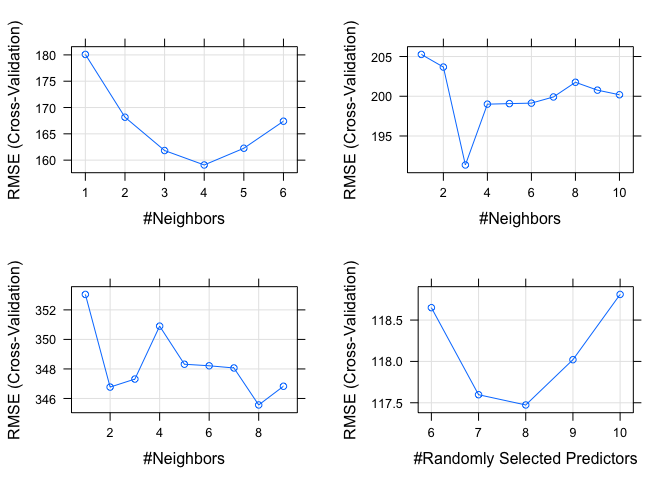
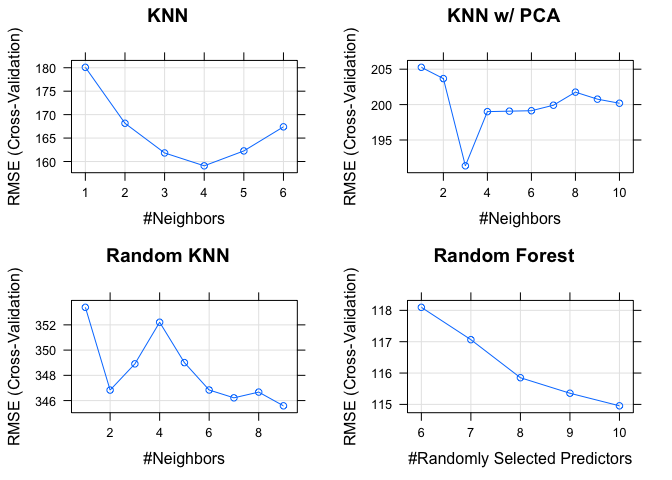
adding titles to graphsS

diff --git a/random_forest_v2.md b/random_forest_v2.md
@@ -111,19 +111,19 @@ random_knn
     ## Resampling results across tuning parameters:
     ## 
     ##   k  RMSE      Rsquared  RMSE SD  
-    ##   1  353.0473  NaN       16.419668
-    ##   2  346.7706  NaN        8.631361
-    ##   3  347.3136  NaN        6.924759
-    ##   4  350.8994  NaN        5.892116
-    ##   5  348.3185  NaN        8.088217
-    ##   6  348.2139  NaN        8.827851
-    ##   7  348.0658  NaN       12.790645
-    ##   8  345.5595  NaN       12.418408
-    ##   9  346.8270  NaN       11.467108
+    ##   1  353.3906  NaN       17.151187
+    ##   2  346.8305  NaN        9.682659
+    ##   3  348.9103  NaN        6.727763
+    ##   4  352.2084  NaN        5.103196
+    ##   5  349.0076  NaN        8.176299
+    ##   6  346.8379  NaN        9.171255
+    ##   7  346.2178  NaN       13.221337
+    ##   8  346.6719  NaN       13.423569
+    ##   9  345.5848  NaN       10.401730
     ## 
     ## Tuning parameter 'mtry' was held constant at a value of 1
     ## RMSE was used to select the optimal model using  the smallest value.
-    ## The final values used for the model were k = 8 and mtry = 1.
+    ## The final values used for the model were k = 9 and mtry = 1.
 
 ``` r
 forest_fit
@@ -136,27 +136,27 @@ forest_fit
     ## 
     ## Pre-processing: centered (10), scaled (10) 
     ## Resampling: Cross-Validated (5 fold) 
-    ## Summary of sample sizes: 746, 745, 744, 744, 745 
+    ## Summary of sample sizes: 744, 745, 745, 744, 746 
     ## Resampling results across tuning parameters:
     ## 
     ##   mtry  RMSE      Rsquared   RMSE SD   Rsquared SD
-    ##    6    118.6501  0.8794121  14.21495  0.02300776 
-    ##    7    117.5972  0.8811873  13.03770  0.01871440 
-    ##    8    117.4733  0.8810074  13.16539  0.01951565 
-    ##    9    118.0208  0.8796183  12.56639  0.02072011 
-    ##   10    118.8101  0.8783684  13.02250  0.02040294 
+    ##    6    118.0968  0.8798602  18.75113  0.03423760 
+    ##    7    117.0644  0.8806987  17.15956  0.03089014 
+    ##    8    115.8513  0.8826324  16.22027  0.02888434 
+    ##    9    115.3557  0.8836847  14.73656  0.02566873 
+    ##   10    114.9548  0.8843487  11.50430  0.01902786 
     ## 
     ## RMSE was used to select the optimal model using  the smallest value.
-    ## The final value used for the model was mtry = 8.
+    ## The final value used for the model was mtry = 10.
 
 Comparison of Parameter selection on RSME for the different models:
 
 ``` r
 library(gridExtra) 
-grid.arrange(   plot(knn_fit),
-                plot(knn_fit_pca),
-                plot(random_knn),
-                plot(forest_fit))
+grid.arrange(   plot(knn_fit, main = "KNN"),
+                plot(knn_fit_pca, main = "KNN w/ PCA"),
+                plot(random_knn, main = "Random KNN"),
+                plot(forest_fit, main = "Random Forest"))
 ```
 
 ![](random_forest_v2_files/figure-markdown_github/unnamed-chunk-5-1.png)
@@ -184,16 +184,16 @@ importance(random_forest)
 ```
 
     FALSE                                  %IncMSE IncNodePurity
-    FALSE employees_mining_logging_1000 102.048852    31929900.1
-    FALSE num_acres_leased_yr             4.992997      405265.4
-    FALSE num_acres_leased               52.420151    20732271.0
-    FALSE num_leases_in_effect           20.779338     8814001.4
-    FALSE num_new_leases_yr               3.485826      388586.5
-    FALSE num_of_producible_wells        25.158260    10859190.9
-    FALSE num_of_producible_completions  22.456119     9017303.7
-    FALSE num_producing_acres            14.483919     3977846.9
-    FALSE num_producing_leases           39.229052    15688411.1
-    FALSE num_wells_spudded_yr            6.452014     1239744.3
+    FALSE employees_mining_logging_1000 103.048886    32244509.2
+    FALSE num_acres_leased_yr             4.900269      403073.5
+    FALSE num_acres_leased               49.733157    21481798.5
+    FALSE num_leases_in_effect           20.916296     8965269.5
+    FALSE num_new_leases_yr               3.790445      421691.4
+    FALSE num_of_producible_wells        25.967869    11338985.5
+    FALSE num_of_producible_completions  21.676697     8407483.3
+    FALSE num_producing_acres            15.441596     4071874.5
+    FALSE num_producing_leases           37.851343    15339103.8
+    FALSE num_wells_spudded_yr            6.600018     1584128.6
 
 Number of employee, number of acres leased for energy development, and number of leases for producing energy have the highes predictive value for predicting hazmat incidences.
 
@@ -216,13 +216,13 @@ rpartTune
     FALSE 
     FALSE No pre-processing
     FALSE Resampling: Cross-Validated (5 fold) 
-    FALSE Summary of sample sizes: 968, 969, 969, 971, 971 
+    FALSE Summary of sample sizes: 971, 969, 969, 970, 969 
     FALSE Resampling results across tuning parameters:
     FALSE 
-    FALSE   cp          RMSE      Rsquared    RMSE SD   Rsquared SD
-    FALSE   0.06764493  246.4161  0.49339471  32.49397  0.15585362 
-    FALSE   0.10634129  312.0600  0.20206552  32.92707  0.08450907 
-    FALSE   0.15244884  344.7182  0.07541223  37.53558  0.02263899 
+    FALSE   cp          RMSE      Rsquared   RMSE SD   Rsquared SD
+    FALSE   0.06764493  247.0027  0.4997870  34.57944  0.14981194 
+    FALSE   0.10634129  305.5307  0.2396846  34.81037  0.14776424 
+    FALSE   0.15244884  338.9069  0.1125267  16.63308  0.04421087 
     FALSE 
     FALSE RMSE was used to select the optimal model using  the smallest value.
     FALSE The final value used for the model was cp = 0.06764493.
